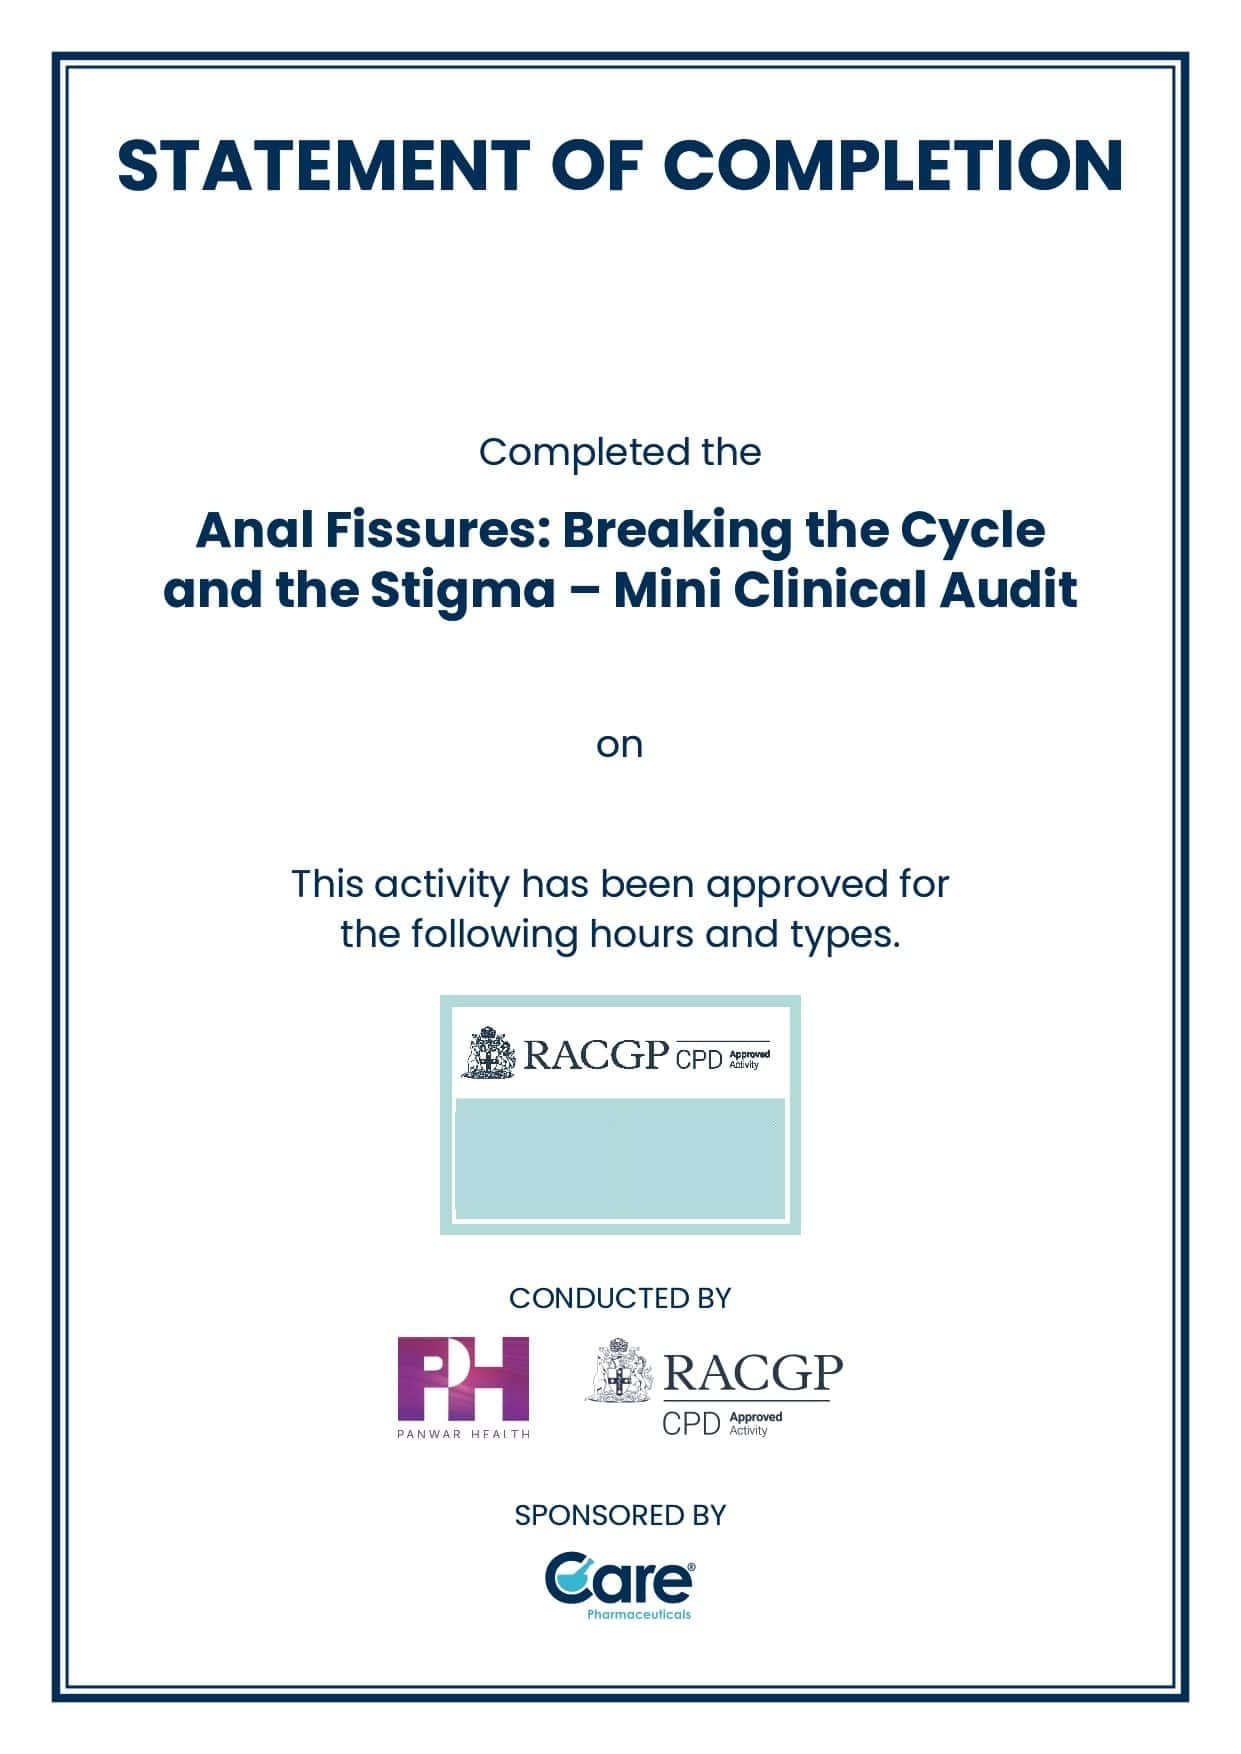
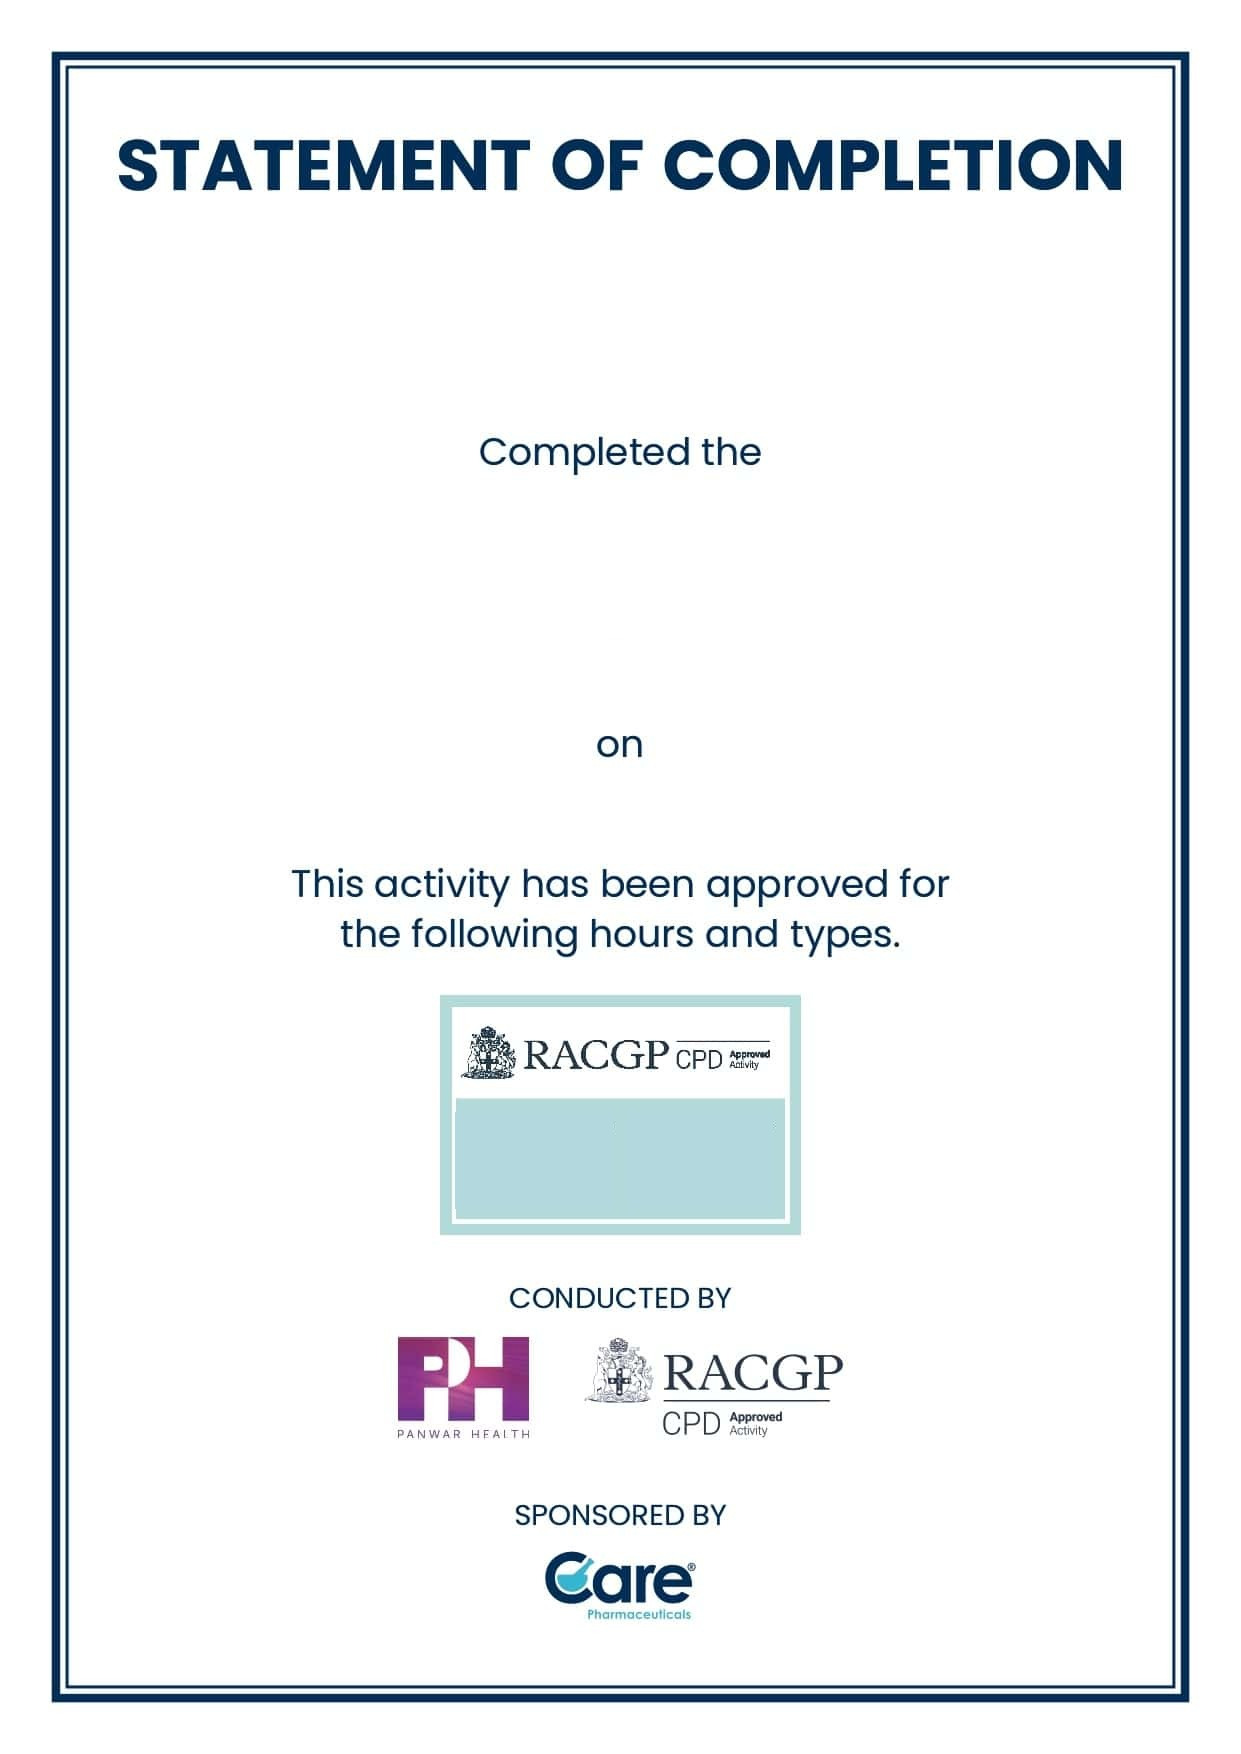
CAPH0150: certificate title drawn from the variant registry on a blank template

Changed region(s): [[0.1225, 0.2771, 0.888, 0.3694]]

diff --git a/site/wp-content/plugins/hcp-mca-review-workflow/migrations/2026-09-09-caph0150-certificate-title.php b/site/wp-content/plugins/hcp-mca-review-workflow/migrations/2026-09-09-caph0150-certificate-title.php
@@ -1,0 +1,33 @@
+<?php
+/**
+ * CAPH0150: the 2026 certificate title is drawn from the registry, so the
+ * template artwork no longer carries "Mini Clinical Audit". Refreshes the
+ * uploaded copy of the template from the plugin asset. Idempotent.
+ */
+
+defined( 'ABSPATH' ) || exit;
+
+return [
+	'description' => 'CAPH0150: 2026 certificate template refreshed (title now drawn from the registry).',
+
+	'up' => function (): string {
+		$variant = hcp_mca_variants( true )[ HCP_MCA_VARIANT_V2 ] ?? null;
+		if ( ! $variant ) {
+			throw new \RuntimeException( '2026 variant not provisioned; run the provision migration first.' );
+		}
+		$source = hcp_mca_certificate_template_path( $variant );
+		if ( ! $source ) {
+			throw new \RuntimeException( 'certificate template artwork missing from the plugin' );
+		}
+		$uploads = wp_upload_dir();
+		$dest    = trailingslashit( $uploads['basedir'] ) . 'hcp-mca/' . basename( $source );
+		if ( file_exists( $dest ) && md5_file( $dest ) === md5_file( $source ) ) {
+			return 'template already current';
+		}
+		wp_mkdir_p( dirname( $dest ) );
+		if ( ! copy( $source, $dest ) ) {
+			throw new \RuntimeException( 'could not refresh the certificate template in uploads' );
+		}
+		return 'certificate template refreshed';
+	},
+];

diff --git a/site/wp-content/plugins/hcp-mca-review-workflow/includes/variants.php b/site/wp-content/plugins/hcp-mca-review-workflow/includes/variants.php
@@ -29,8 +29,9 @@ function hcp_mca_variant_definitions(): array {
 			'activity_id'  => '1460044',
 			'hours_mo'     => '6.5',
 			'hours_rp'     => '1.0',
-			// Legacy artwork carries its own activity ID and hours; no overlay.
+			// Legacy artwork carries its own title, activity ID and hours; no overlay.
 			'cert_template' => null,
+			'cert_title'    => null,
 			// Legacy RACGP CPD logos stay as the media-library images the pages already embed.
 			'cpd_logo'       => null,
 			'cpd_logo_total' => null,
@@ -52,8 +53,9 @@ function hcp_mca_variant_definitions(): array {
 			'activity_id'  => 'XXX',
 			'hours_mo'     => '3.0',
 			'hours_rp'     => '2.0',
-			// Blank artwork: activity ID and hours are drawn at render time (see certificate.php).
+			// Blank artwork: title, activity ID and hours are drawn at render time (see certificate.php).
 			'cert_template' => 'assets/img/certificate-2026-background.jpg',
+			'cert_title'    => 'Anal Fissures: Breaking the Cycle and the Stigma – Clinical Audit',
 			// RACGP CPD hours logos: audit only, and the whole activity (module + audit).
 			'cpd_logo'       => 'assets/img/RACGP-logo-2026-Clinical-Audit-Only.png',
 			'cpd_logo_total' => 'assets/img/RACGP-logo-2026-Total-Activity.png',

diff --git a/site/wp-content/plugins/hcp-mca-review-workflow/includes/certificate.php b/site/wp-content/plugins/hcp-mca-review-workflow/includes/certificate.php
@@ -29,6 +29,13 @@ function hcp_mca_certificate_overlay( $pdf, $cert_args ): void {
 
 	$pdf->SetTextColor( 20, 41, 74 );
 
+	// Course title, centred, two lines under "Completed the".
+	if ( ! empty( $variant['cert_title'] ) ) {
+		$pdf->SetFont( 'helvetica', 'B', 22 );
+		$pdf->SetXY( $u( 60 ), $u( 243 ) );
+		$pdf->MultiCell( $pdf->getPageWidth() - $u( 120 ), $u( 27 ), $variant['cert_title'], 0, 'C' );
+	}
+
 	// "Activity ID XXX", centred, between the course title and "on".
 	$pdf->SetFont( 'helvetica', 'B', 25 );
 	$pdf->SetXY( 0, $u( 300 ) );
